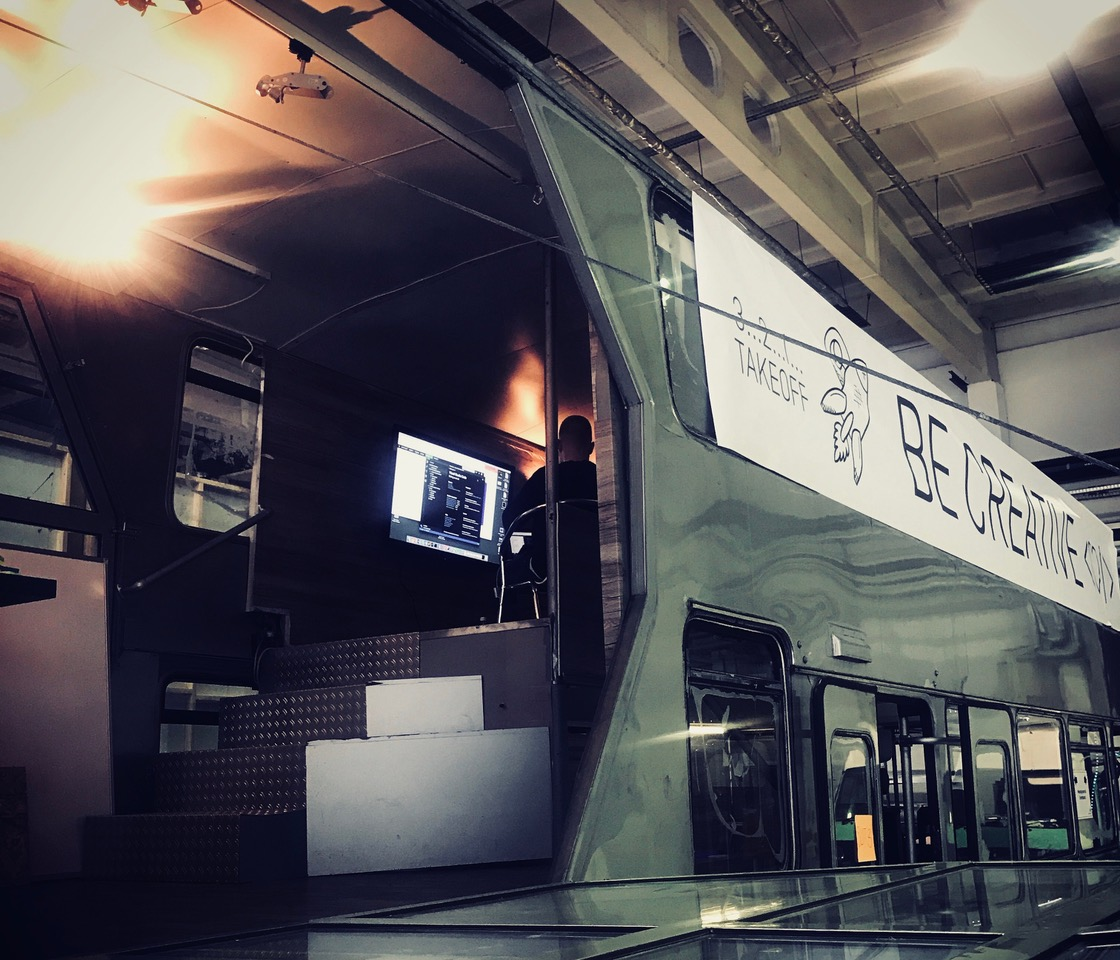
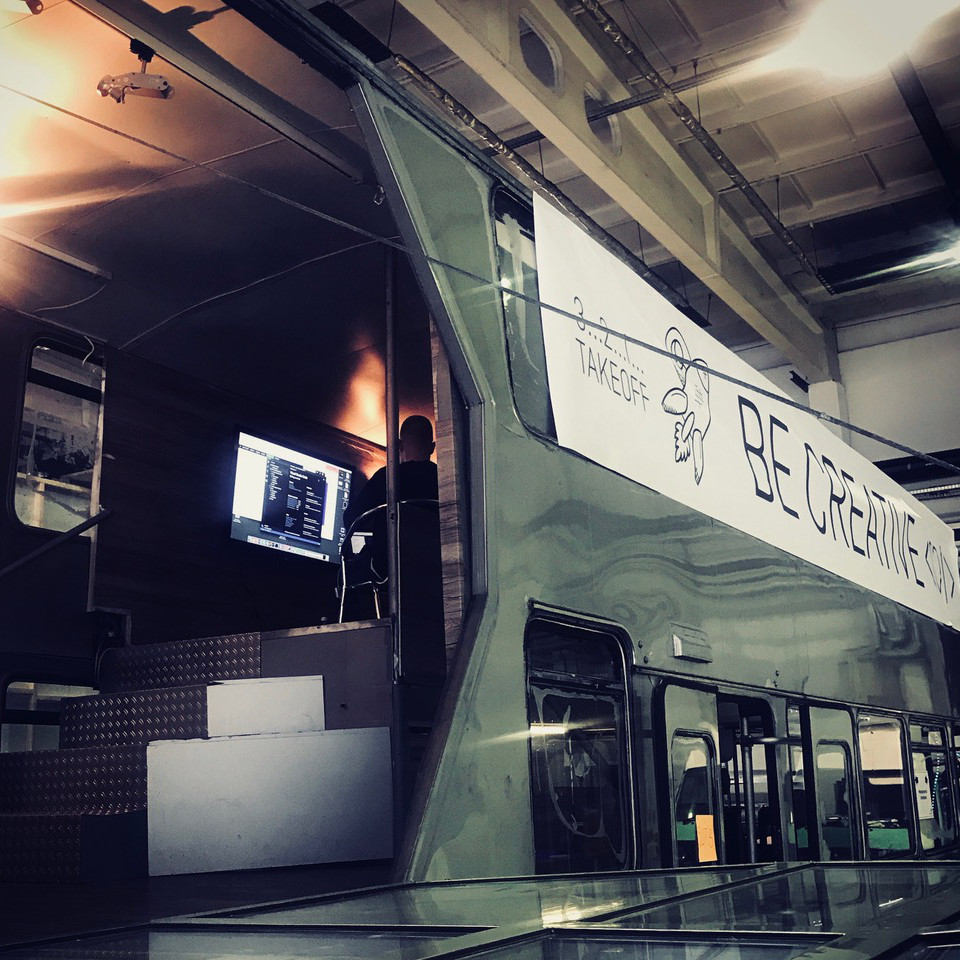
clean up images

diff --git a/src/components/BlogSummaryView/blog-posts.js b/src/components/BlogSummaryView/blog-posts.js
@@ -136,8 +136,8 @@ const posts = [
         month: "03",
         name: "knowledge-transfer-offsite-im-motionlab",
         title: "Knowledge-Transfer-Offsite im MotionLab Berlin",
-        titlePicture: "kto00.png",
-        summary: "dsfsfsdfsdf",
+        titlePicture: "kto00.jpg",
+        summary: "Bei AS Ideas generieren wir kontinuierlich Ideen, Prototypen und Wissen. Erfolgskritisch ist dabei, dass wir unsere Initiativen reflektieren und das gewonnene Wissen untereinander teilen. Für einen freien Kopf und frische kreative Energie zogen wir uns diesen März ins Offsite zurück...",
         author: "Tarek Madany Mamlouk",
         authorEmail: "tarek.madanymamlouk@asideas.de"
     }

diff --git a/public/blog/2018/03/knowledge-transfer-offsite-im-motionlab.md b/public/blog/2018/03/knowledge-transfer-offsite-im-motionlab.md
@@ -24,7 +24,7 @@ Der größte unserer Themenkomplexe war Blockchain. Wir hatten den Januar zum "B
 
 Die Blockchain-Advanced-Session drang tiefer in die Welt von Solidity ein und wir klärten Details über primitive und komplexe Datentypen, Arrays und Mappings, Addressen und Kontrollflüsse. Die Ethereum Virtual Machine arbeitet etwas anders als klassische Ausführungsumgebungen, da Ausführung von Programmcode sehr teuer ist und daher jede Zeile Code mit großer Sorgfalt gestaltet werden muss. Für die Ausführung eines Smart Contracts müssen konkrete Kosten definiert werden, was für viele Fragezeichen sorgt. Eine wichtige Erkenntnis aus der fortgeschrittenen Entwicklung in Solidity ist, dass die Auswahl dieser Technologie mit großer Vorsicht geschehen muss, da abhängig vom Use-Case, der Entwickler sich das Leben eventuell mit Ethereum unnötig schwer macht.
 
-## ![](kto03_klein.png) ![](kto12_klein.png) ![](kto06_klein.png)
+## ![](kto03.jpg) ![](kto10.jpg) ![](kto06.jpg)
 
 ### Chatbots
 
@@ -42,7 +42,7 @@ Ein weiteres spannendes Thema ist die Sprachsynthese. Alexa, Siri und Google Hom
 
 Das Jahr 2018 steht ganz im Namen von Artificial Intelligence (AI) und so haben wir uns auch an diese Materie gewagt. Wir bauten jüngst einen Prototypen für ein System, das für einen Nachrichtenartikel eine Liste der "ähnlichsten" bekannten Artikel zusammenstellt. Hierfür setzten wir den K-Nearest-Neighbor Algorithmus ein, der zur Kategorie des Lazy Learnings gehört. Lazy Learning bedeutet in diesem Fall, dass das System mit dem Hinzufügen eines neuen Artikels "lernt" und eine angepasste Ergebnisliste zurückliefert. Die Berechnung geschieht erst zur Anfragezeit (daher 'lazy'), und verwendet die Trainingsdaten als Modell ohne ein separates Modell vorzuberechnen. Diese Session war die mathematischste unserer Sessions, da die zentrale Herausforderung von KNN die Auswahl des Entfernungsmaßes ist über das die relative Nähe von Elementen zueinander berechnet wird. Wir diskutierten die Euklidische Distanz, die Manhattan Distanz, die Kosinus Distanz und den Pearson Korrelationskoeffizienten. Zum besseren Verständnis spielten wir die Berechnung der Distanzen anhand von Beispielen durch und implementierten dann eine Ähnlichkeitsanalyse von Nachrichtenartikeln in Python. Die Session wurde ein wenig ausgebremst nachdem der wunderbar vorbereitete Docker Container mit unseren Tools sich nicht aus dem Repo runterladen lies weil die Internetleitung zu dünn war. Nachdem wir die Werkzeuge von Hand auf den Rechnern nachgerüstet hatten, ging es weiter.
 
-![](kto00.png)
+![](kto00.jpg)
 
 ### Innovation Management
 
